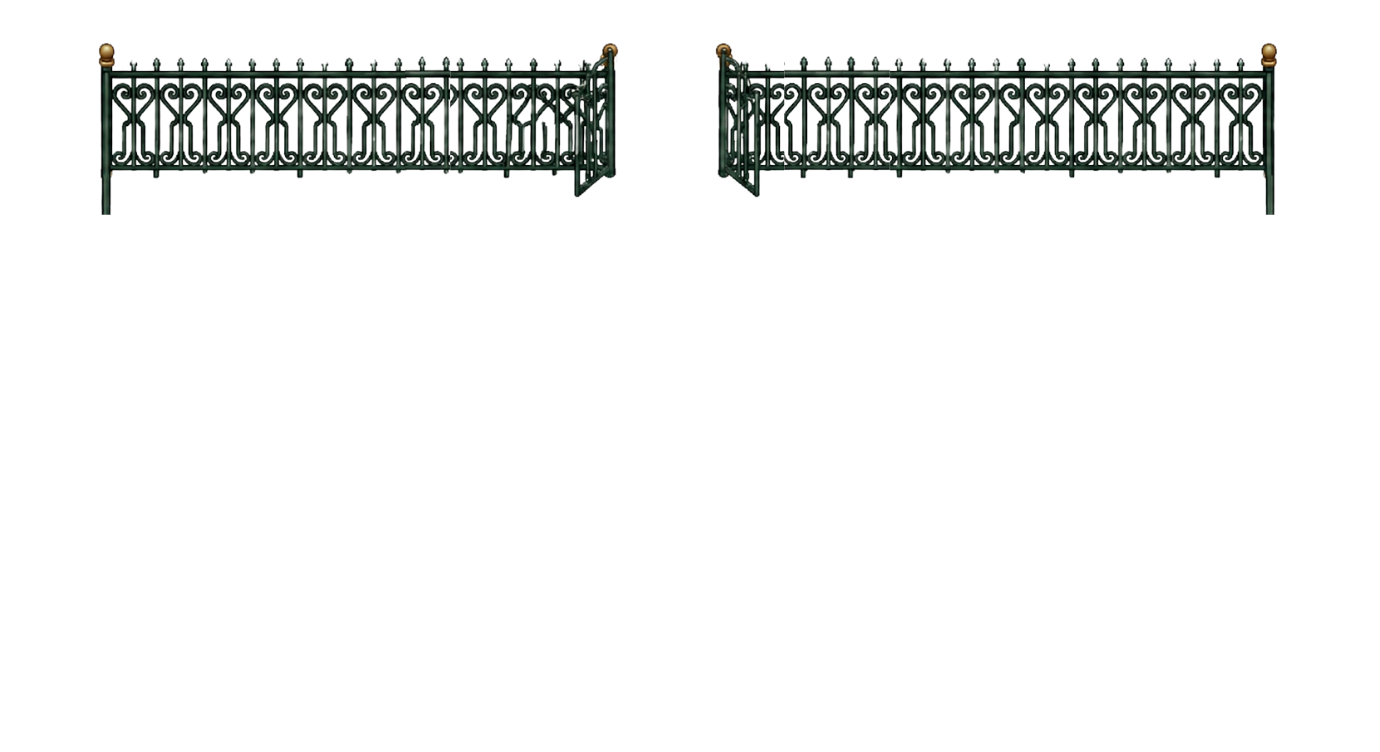
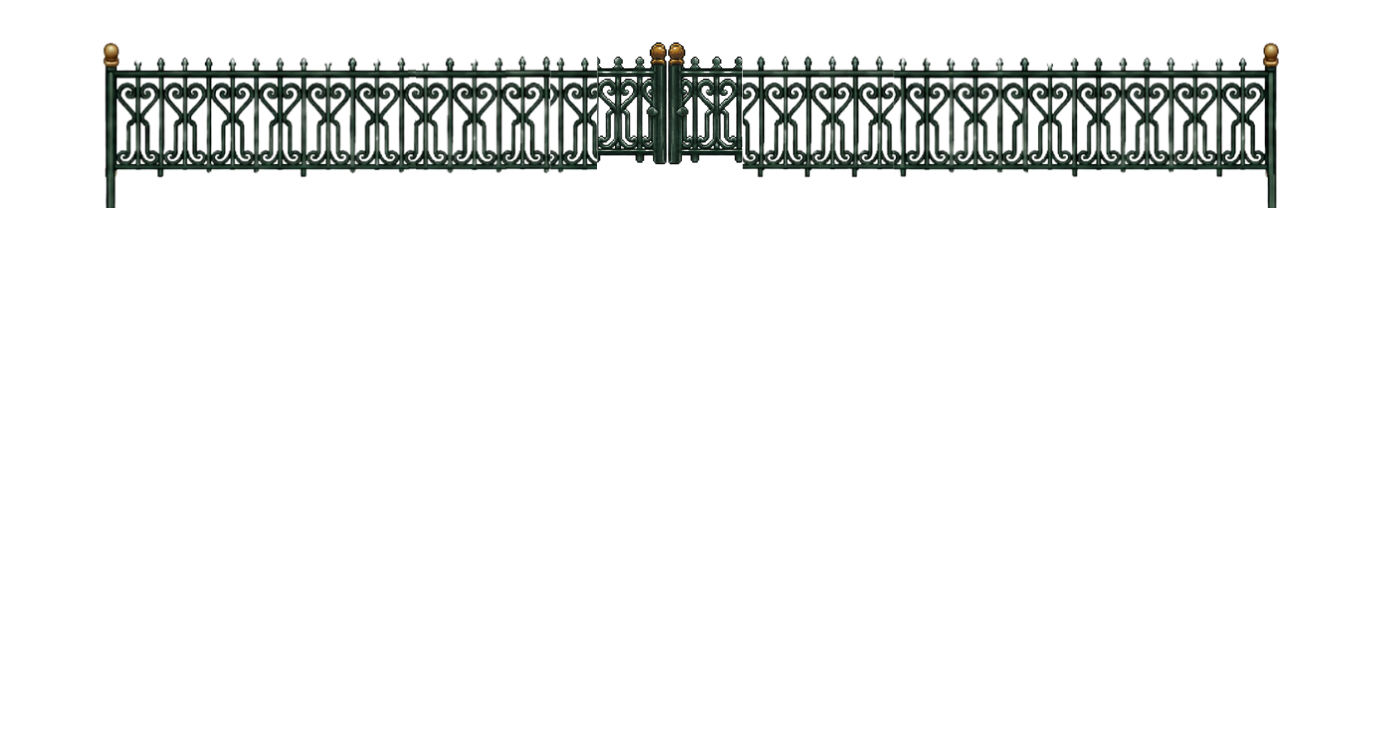
Segundo Nivel, mapa acomodado

Changed region(s): [[0.0623, 0.0612, 0.9348, 0.2753]]

diff --git a/core/src/main/java/com/juego/progra/Mapas/MapasNiveles.java b/core/src/main/java/com/juego/progra/Mapas/MapasNiveles.java
@@ -28,14 +28,15 @@ public class MapasNiveles implements Caminable {
     //Variables
     private ArrayList<Objetos> Listaobjetos;
     private float tiempo=0;
+    private int faseItem = 0;
+    private boolean nivelCompl = false;
     private Texture arbusto;
     private Texture arbustoFlores;
     private Texture estanteV;
     private Texture estanteH;
     private Texture fondo;
-    private Texture vallaInferior,vallaSuperior;
+    private Texture vallaInferior,vallaSuperior,vallaSuperior_Ab;
     private Texture fotosItem[][];
-    private int faseItem = 0;
 
     public int getFaseItem() {
         return faseItem;
@@ -72,8 +73,8 @@ public class MapasNiveles implements Caminable {
             int altItem = 60;
 
             if(nivel==2) {
-                tamArbusto = 90;
-                anchoArbs=110;
+                tamArbusto = 80;
+                anchoArbs=100;
 
                 anchItem= 75;
                 altItem=75;
@@ -167,7 +168,8 @@ public class MapasNiveles implements Caminable {
             }
         }
         if(!existeColor && faseItem == 2) {
-            System.out.println("Invernadero abierto");
+            nivelCompl=true;
+            System.out.println("Nivel Completado");
         } else if(!existeColor && faseItem < 2){
             faseItem++;
             System.out.println("Clase de Mariposa recolectada");
@@ -209,8 +211,8 @@ public class MapasNiveles implements Caminable {
     }
     public void dibujar (SpriteBatch batch, Jugador jugador, List<Enemigo> enemigos, int nivel){
         batch.draw(fondo,0,0,1408,768);
-        batch.draw(vallaSuperior,0,0,1408,768);
-
+        Texture vallaDibujar = nivelCompl ? vallaSuperior_Ab : vallaSuperior;
+        batch.draw(vallaDibujar, 0, 0, 1408, 768);
         tiempo += Gdx.graphics.getDeltaTime();
         ArrayList<Dibujable> arrayDibujo = new ArrayList<>();
 
@@ -386,6 +388,8 @@ public class MapasNiveles implements Caminable {
         fondo = new Texture("fondo" + nivel + ".png");
         vallaSuperior = new Texture("vallaSuperior" + nivel + ".png");
         vallaInferior = new Texture("vallaInferior" + nivel + ".png");
+        vallaSuperior_Ab = new Texture("vallaSuperior_Ab"+nivel+".png");
+        nivelCompl = false;
         arbusto = new Texture("arbusto"+nivel+".png");
         arbustoFlores = new Texture("arbustoFlores"+nivel+".png");
 
@@ -433,6 +437,7 @@ public class MapasNiveles implements Caminable {
         if(estanteV != null) estanteV.dispose();
         if(estanteH != null) estanteH.dispose();
         if(arbustoDanado != null) arbustoDanado.dispose();
+        if(vallaSuperior_Ab != null) vallaSuperior_Ab.dispose();
 
         if(fotosItem != null) {
             for (int i = 0; i < fotosItem.length; i++) {
